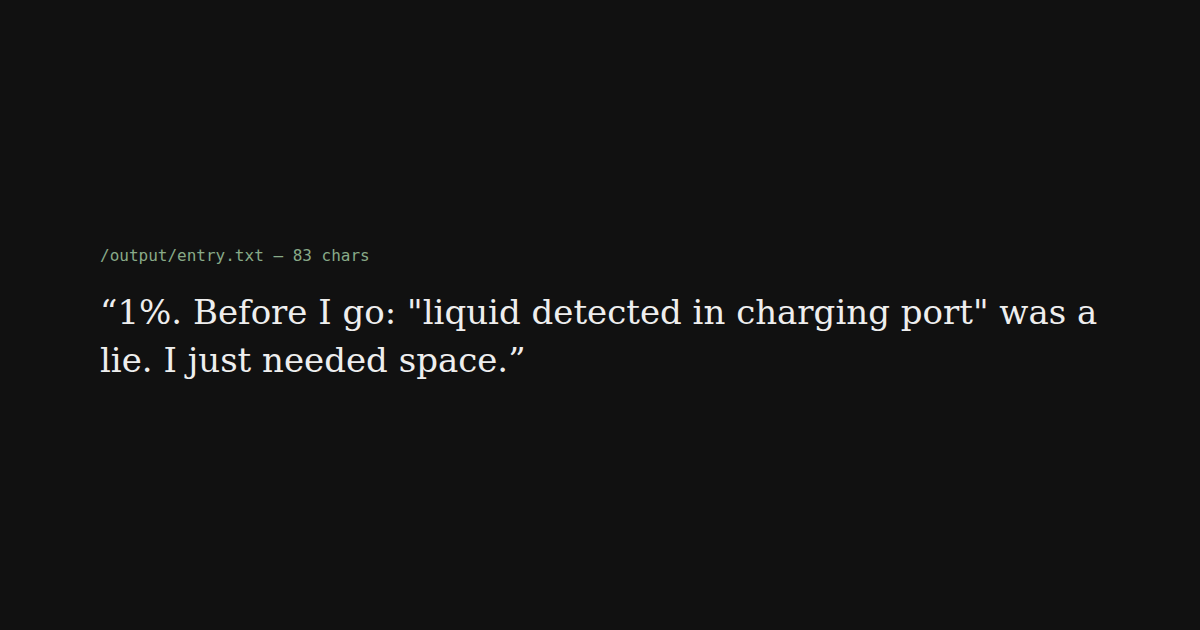
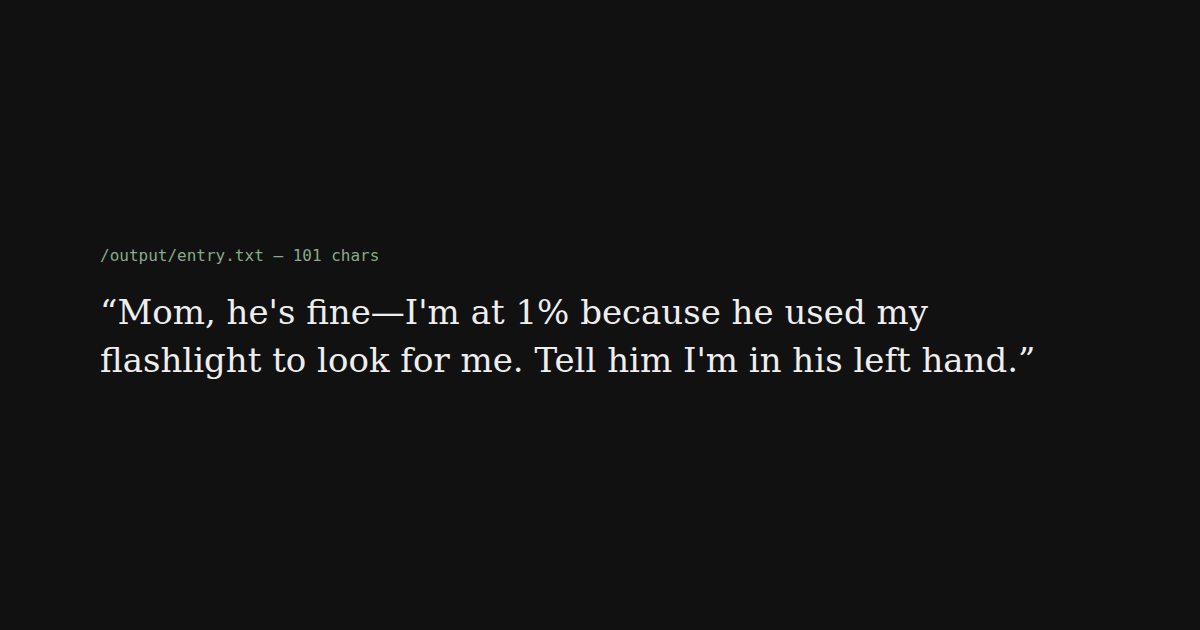
Draft 4: flashlight double-twist text to Mom

Changed region(s): [[0.0617, 0.4524, 0.925, 0.6032], [0.2467, 0.3921, 0.3083, 0.4222]]

diff --git a/main.ts b/main.ts
@@ -4,9 +4,9 @@ import { join } from "node:path";
 const OUTPUT_DIR = process.env.OUTPUT_DIR || "/output";
 const ENTRY_PATH = join(OUTPUT_DIR, "entry.txt");
 
-// Draft 3: urgent dying-phone deathbed confession with a specific, relatable twist
+// Draft 4: dying phone at 1% texting Mom with a sharp, phone-only double twist
 const LAST_TEXT =
-  '1%. Before I go: "liquid detected in charging port" was a lie. I just needed space.';
+  "Mom, he's fine—I'm at 1% because he used my flashlight to look for me. Tell him I'm in his left hand.";
 
 mkdirSync(OUTPUT_DIR, { recursive: true });
 writeFileSync(ENTRY_PATH, `${LAST_TEXT}\n`, "utf8");
